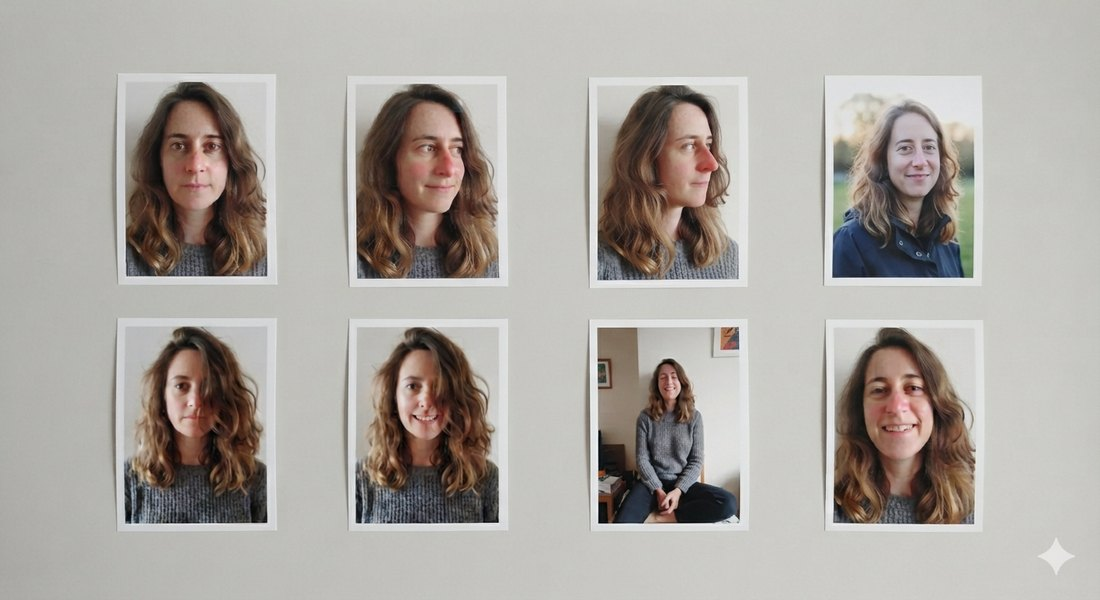
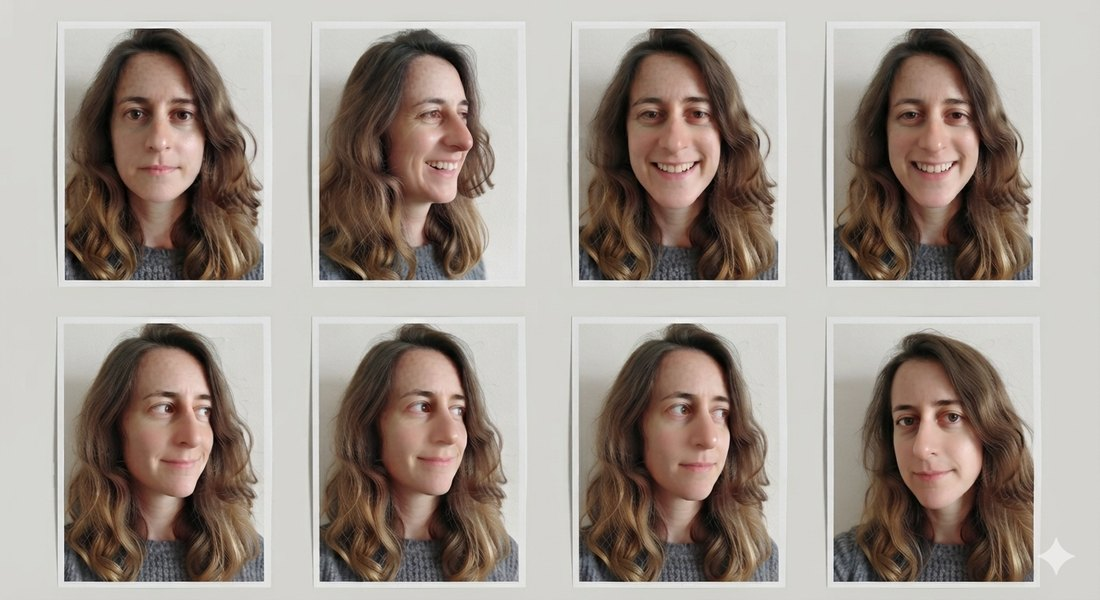
New 05-good image; arrow navigation in photo guide

diff --git a/index.html b/index.html
@@ -200,6 +200,19 @@ header.hero{position:relative;overflow:hidden;background:var(--bg-deep);color:#f
 .how-cap b{display:block;font-size:15.5px;color:#0b1f2b;margin-bottom:5px}
 .how-cap span{font-size:13.5px;color:#51707f;line-height:1.55}
 /* Paired wrong/right examples for the photo guide. */
+/* Step arrows, vertically centred over the example photos. The dots alone
+   worked but asked the customer to aim at an 8px target; these are the obvious
+   way to move through a sequence. */
+.how-view{position:relative}
+.how-nav{position:absolute;top:50%;transform:translateY(-50%);z-index:5;
+  width:38px;height:38px;border:0;border-radius:50%;cursor:pointer;
+  background:rgba(8,32,46,.62);color:#fff;font-size:24px;line-height:1;
+  display:grid;place-items:center;padding:0 0 3px;font-family:inherit;
+  backdrop-filter:blur(4px);box-shadow:0 2px 10px rgba(0,0,0,.3);transition:.15s;opacity:.82}
+.how-nav:hover{background:rgba(8,32,46,.88);opacity:1;transform:translateY(-50%) scale(1.07)}
+.how-nav.prev{left:9px}
+.how-nav.next{right:9px}
+@media(hover:none) and (pointer:coarse){ .how-nav{width:44px;height:44px;opacity:.9} }
 .how-pairs{display:none}
 .how-pairs.on{display:block;margin-bottom:4px}
 /* Stacked, not side by side: the examples are landscape (and step 3 is a
@@ -918,9 +931,13 @@ footer{padding-bottom:calc(26px + env(safe-area-inset-bottom))}
          Images live in /guide/ as 01-bad.jpg / 01-good.jpg … 05-*.jpg. Any that
          are missing fall back to the animated diagram below, so the guide keeps
          working whether or not the photos have been produced yet. -->
-    <div class="how-pairs" id="howPairs"></div>
-    <div class="how-stage" id="howStage">
-      <svg class="how-svg" id="howSvg" viewBox="0 0 320 200" xmlns="http://www.w3.org/2000/svg"></svg>
+    <div class="how-view">
+      <div class="how-pairs" id="howPairs"></div>
+      <div class="how-stage" id="howStage">
+        <svg class="how-svg" id="howSvg" viewBox="0 0 320 200" xmlns="http://www.w3.org/2000/svg"></svg>
+      </div>
+      <button type="button" class="how-nav prev" onclick="howPrev()" aria-label="Previous">‹</button>
+      <button type="button" class="how-nav next" onclick="howNext()" aria-label="Next">›</button>
     </div>
     <div class="how-cap" id="howCap"></div>
     <div class="how-dots" id="howDots"></div>
@@ -2978,7 +2995,9 @@ function howRender(){
   const d=document.getElementById('howDots');
   if(d) d.innerHTML=Array.from({length:HOW_N},(_,i)=>'<div class="how-dot'+(i===howStep?' on':'')+'" onclick="howGo('+i+')"></div>').join('');
 }
-function howGo(i){ howStep=i%HOW_N; howRender(); howPlay(); }
+function howGo(i){ howStep=((i%HOW_N)+HOW_N)%HOW_N; howRender(); howPlay(); }
+function howPrev(){ howGo(howStep-1); }
+function howNext(){ howGo(howStep+1); }
 function howPlay(){ clearInterval(howTimer); howTimer=setInterval(()=>{ howStep=(howStep+1)%HOW_N; howRender(); },4200); }
 function openHow(){ howStep=0; howProbeImages(); howRender(); howPlay(); openModal('howModal'); }
 try{ renderTrust(); renderLegal(); }catch(e){}
